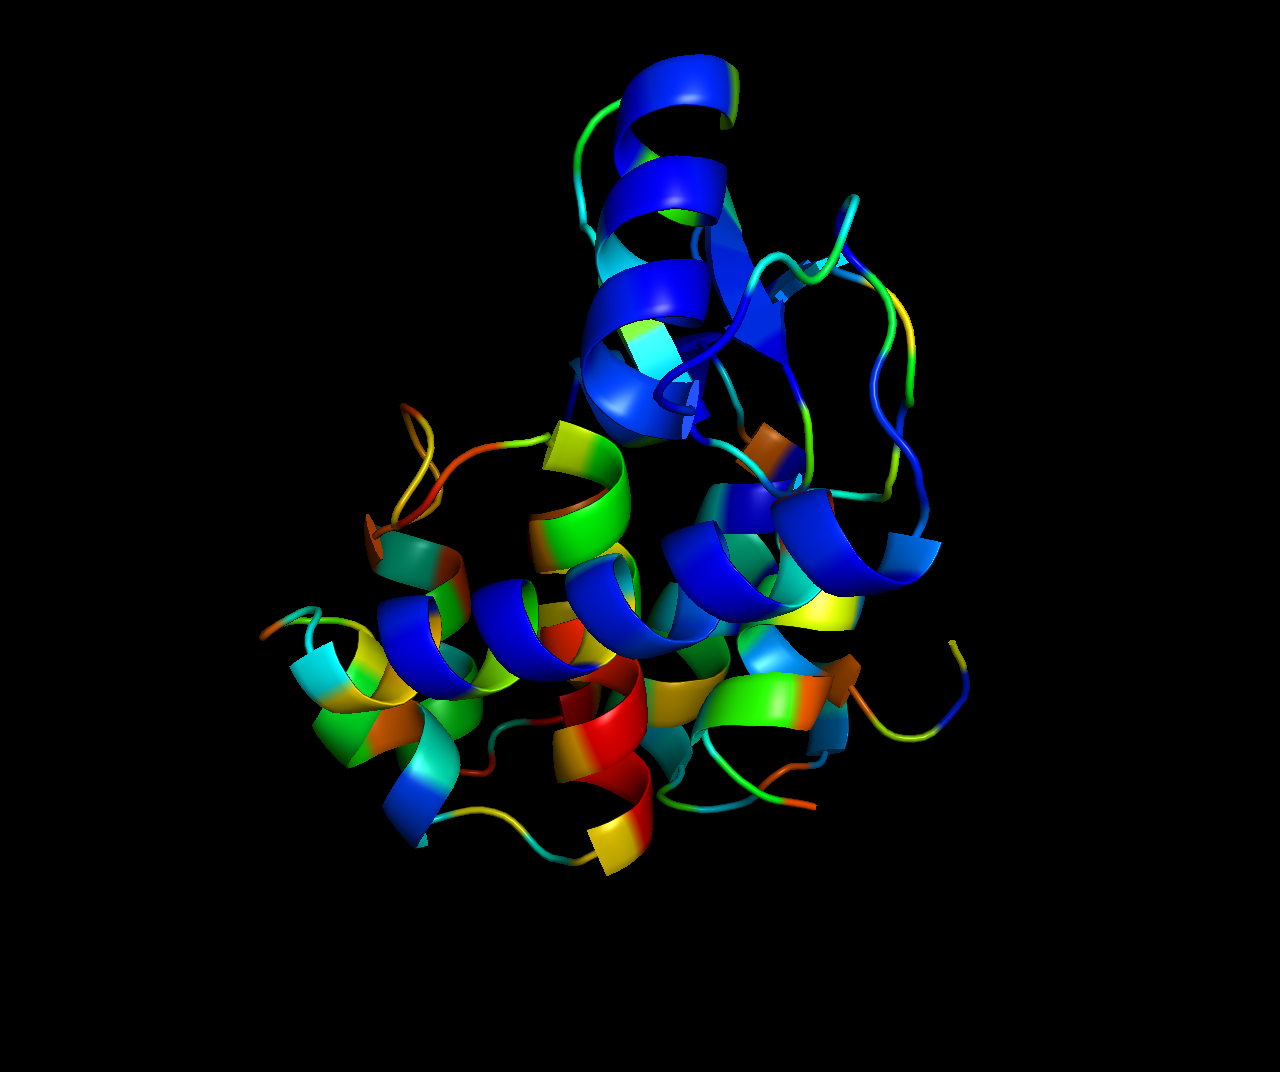
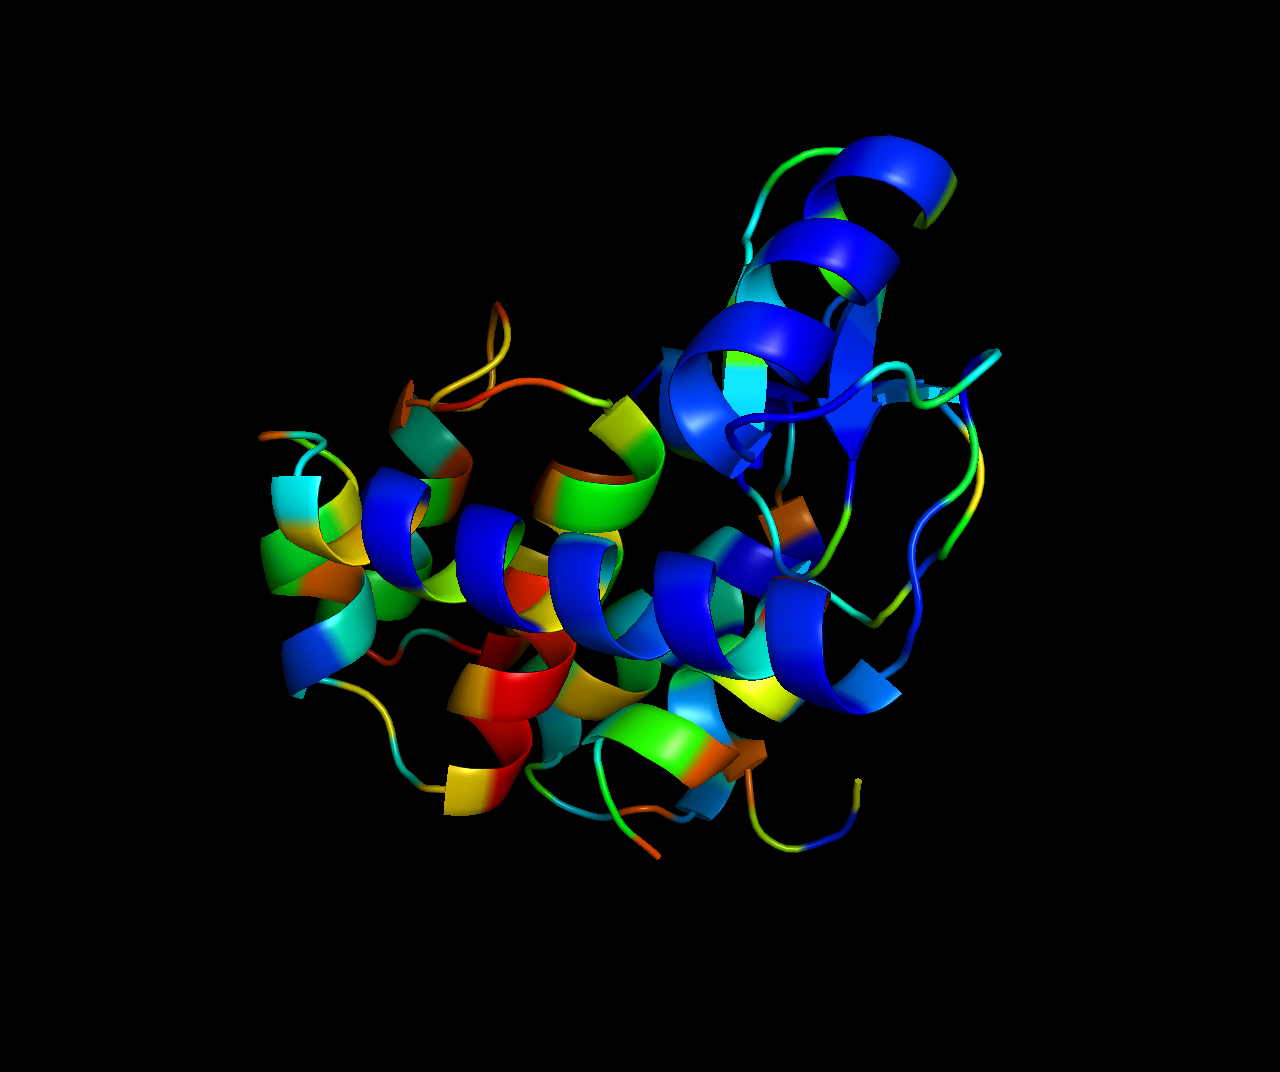
Added results of lysozyme mutants visualisation process. Added directory to ignore.

Changed region(s): [[0.1875, 0.0308, 0.7812, 0.8312], [0.75, 0.6157, 0.7812, 0.6465], [0.6562, 0.7388, 0.6875, 0.7696]]

diff --git a/README.md b/README.md
@@ -1506,7 +1506,7 @@ Predictions made:
 ./thermoclassbs 1a5z 1lld 1b9b 1tre 1c3u 1qn5 1dd4 1ctf 1dd5 1ek8
 ```
 
-Visualisation process:
+Visualisation process (*T. maritima*):
 ```
 ./scripts/misc/visualise_pymol_batch.py 
         thermoclass/predictions/1a5z.pdb thermoclass/predictions/1lld.pdb \
@@ -1514,6 +1514,18 @@ Visualisation process:
         thermoclass/predictions/1c3u.pdb thermoclass/predictions/1qn5.pdb \
         thermoclass/predictions/1dd4.pdb thermoclass/predictions/1ctf.pdb \
         thermoclass/predictions/1dd5.pdb thermoclass/predictions/1ek8.pdb \
+        thermoclass/predictions/PyMOL/
+```
+
+Visualisation process (lysozymes):
+```
+./scripts/misc/visualise_pymol_batch.py 
+        thermoclass/predictions/2lzm.pdb thermoclass/predictions/252l.pdb \
+        thermoclass/predictions/2lzm.pdb thermoclass/predictions/209l.pdb \
+        thermoclass/predictions/2lzm.pdb thermoclass/predictions/210l.pdb \
+        thermoclass/predictions/1l63.pdb thermoclass/predictions/189l.pdb \
+        thermoclass/predictions/1l63.pdb thermoclass/predictions/104l.pdb \
+        thermoclass/predictions/1l63.pdb thermoclass/predictions/1g1v.pdb \
         thermoclass/predictions/PyMOL/
 ```
 
